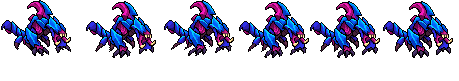
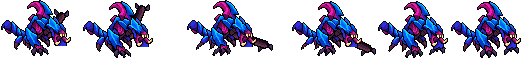
Rek'Sai: the attack is a claw swipe, as League's, not a bite
The user, 2026-10-19: 「雷克塞普攻是不是用手的？」 - League's RekSai_attack1 / attack2 rear and bring a front claw down;
the strip was a lunge with the jaw open (E's bite). Her design's front "hands" are only claws under the head, so
rig_reksai.py sets the far front claw (carried whole: mirrored up, or as drawn) on an arm drawn from her own dark limb
colours from the shoulder (the thin-limb way), behind her head: raised over the crest, higher, brought down in front of
her face onto the target (frame 3, the hit), planted, back. Every other tag is pixel-identical.

diff --git a/tools/art/rig_reksai.py b/tools/art/rig_reksai.py
@@ -171,14 +171,17 @@ HEAP_UNDER = 3                                        # sunk this deep (or deepe
 DEEP = 20                                             # this deep, what sticks out beside the heap (the tail) is under too
 
 
-def pose_a(dx=0, sink=0, lift=0, mouth=0, legs=None, under=0):
+def pose_a(dx=0, sink=0, lift=0, mouth=0, legs=None, under=0, hide=()):
     """A on the canvas: the body (with the head) dx forward, `sink` rows down over the legs, everything `lift` rows up;
     legs: {leg: (top dx, foot dx, lift)} (missing: (dx, 0, 0) - the top follows the body, the claws stay); `under`
-    rows of A sunk into the ground (the whole figure moved down and cut at the ground line)."""
+    rows of A sunk into the ground (the whole figure moved down and cut at the ground line); hide: legs left out (the
+    attack draws the far front claw on an arm of its own - swipe())."""
     can = blank()
     legs = legs or {}
     y_legs = AY0 + under - lift
     for name in LEG_ORDER:
+        if name in hide:
+            continue
         tdx, fdx, ll = legs.get(name, (dx, 0, 0))
         leg(can, name, tdx, fdx, ll, y_legs)
     src = open_mouth(np.where(BODY[..., None], A0, 0).astype(np.uint8), mouth)
@@ -244,6 +247,71 @@ def flash(a, k=0.55):
     return out
 
 
+# ------------------------------------------------------------------------------------------------- the claw swipe
+# League's RekSai_attack1 / attack2: she rears and brings a front claw down on the target - her design's front "hands"
+# are only claws under the head, so the far front claw (LEGS["ff"], carried whole: mirrored or turned a quarter) is set
+# on an arm drawn from her own limb colours (league_caitlyn's / league_aphelios's thin-limb way) from the shoulder
+ARM_COLS = ((30, 10, 30), (67, 32, 55), (105, 51, 79))   # design_A's dark limb under the head: shade, mid, light
+SHOULDER = (34, 47)                                      # design square (row, column) where the far front limb starts
+
+
+def limb(can, p0, p1, width, behind):
+    """An arm from canvas square p0 to p1 ((x, y)): ARM_COLS lit on its upper side, outlined; behind: only where the
+    canvas is empty (behind the body)."""
+    (x0, y0), (x1, y1) = p0, p1
+    ys, xs = np.mgrid[0:CH, 0:CW]
+    dx, dy = x1 - x0, y1 - y0
+    L2 = max(1e-6, dx * dx + dy * dy)
+    t = np.clip(((xs + 0.5 - x0) * dx + (ys + 0.5 - y0) * dy) / L2, 0, 1)
+    px, py = x0 + t * dx, y0 + t * dy
+    d = np.hypot(xs + 0.5 - px, ys + 0.5 - py)
+    side = (xs + 0.5 - x0) * dy - (ys + 0.5 - y0) * dx          # > 0: below / behind the bone
+    inside = d <= width / 2.0
+    ring = ndimage.binary_dilation(inside, structure=np.ones((3, 3))) & ~inside
+    out = can.copy()
+    free = can[..., 3] == 0 if behind else np.ones((CH, CW), bool)
+    for m, c in ((inside & (side > 0) & (d > width * 0.2), ARM_COLS[0]), (inside & (np.abs(side) <= 0) | (inside & (d <= width * 0.2)), ARM_COLS[1]),
+                 (inside & (side < 0) & (d > width * 0.2), ARM_COLS[2])):
+        m = m & free
+        out[m] = (*c, 255)
+    m = ring & free & (out[..., 3] == 0)
+    out[m] = (*OUTLINE, 255)
+    return out
+
+
+def claw_piece(how):
+    """LEGS["ff"]'s squares cut to their box: "up" mirrored top to bottom (the claws up), "fwd" a quarter turn
+    counter-clockwise (the root left, the claws forward), "down" as drawn."""
+    ys, xs = np.nonzero(LEGS["ff"])
+    sub = np.zeros((ys.max() - ys.min() + 1, xs.max() - xs.min() + 1, 4), np.uint8)
+    sub[ys - ys.min(), xs - xs.min()] = A0[ys, xs]
+    return {"up": sub[::-1], "fwd": np.rot90(sub, 1), "down": sub}[how].copy()
+
+
+def swipe(dx, sink, hand, how, behind, mouth=0, width=4):
+    """A frame of the swipe: the body (dx, sink) without the far front claw, the arm from SHOULDER to `hand` (design
+    square (row, column) of the posed body) and the claw there (its root on the hand), behind the body or in front."""
+    can = pose_a(dx=dx, sink=sink, mouth=mouth, hide=("ff",))
+    bx, by = AX0 + dx, AY0 + sink
+    s = (bx + SHOULDER[1] + 0.5, by + SHOULDER[0] + 0.5)
+    h = (bx + hand[1] + 0.5, by + hand[0] + 0.5)
+    can = limb(can, s, h, width, behind)
+    pc = claw_piece(how)
+    ph, pw = pc.shape[:2]
+    hx, hy = int(round(h[0])), int(round(h[1]))
+    x0, y0 = {"up": (hx - pw // 2, hy - ph + 1), "fwd": (hx, hy - ph // 2), "down": (hx - pw // 2, hy)}[how]
+    m = pc[..., 3] > 0
+    if behind:
+        sub = np.zeros_like(can)
+        put(sub, pc, m, x0, y0)
+        m2 = (sub[..., 3] > 0) & (can[..., 3] == 0)
+        can[m2] = sub[m2]
+    else:
+        put(can, pc, m, x0, y0)
+    can[GY:] = 0
+    return can
+
+
 # ------------------------------------------------------------------------------------------------- the run
 RUN_MS = 90
 RUN_SWING = 4                                         # squares each way (6 tried in the 2026-10-19 frame audit: the
@@ -276,10 +344,12 @@ def frames():
     out["idle"] = [(pose_a(sink=b, mouth=1 if b == 2 else 0), IDLE_MS) for b in breath]
     out["run"] = [(run_frame(i), RUN_MS) for i in range(8)]
     # the bite-swipe: the kit's hit on tick 11 = 183 ms -> frame 3 (from 180 ms)
-    # (2026-10-19 frame audit: the drawing back and the lunge half as wide again, a recovery frame more: 6 frames)
-    out["attack"] = [(pose_a(dx=-3, sink=1), 90), (pose_a(dx=3, mouth=2, legs={"ff": (3, 3, 1)}), 80),
-                     (pose_a(dx=6, sink=1, legs={"ff": (6, 4, 0)}), 100), (pose_a(dx=4, legs={"ff": (4, 2, 0)}), 70),
-                     (pose_a(dx=2, legs={"ff": (2, 1, 0)}), 50), (pose_a(), 43)]
+    # the claw swipe (League's RekSai_attack1 / attack2; the user, 2026-10-19: 「雷克塞普攻是不是用手的？」 - the strip
+    # was a lunge with the jaw open, E's bite): the far front claw raised over her head behind the crest, higher, brought
+    # down in front of her face onto the target (frame 3, the hit), planted, back
+    out["attack"] = [(swipe(-2, 1, (16, 60), "up", True, width=6), 90), (swipe(-3, 0, (8, 58), "up", True, width=6), 80),
+                     (swipe(4, 1, (44, 77), "down", True, mouth=1, width=6), 100),
+                     (swipe(4, 2, (47, 75), "down", True, width=6), 70), (pose_a(dx=2), 50), (pose_a(), 43)]
     # Queen's Wrath (League's spell1 leaps; a hop here, nothing pitched): crouch, the hop with the mouth open and the front
     # claws reaching, the slam forward (q_hit tick 10 = 167 ms -> frame 3), back
     out["skill"] = [(pose_a(dx=-1, sink=2), 100),
